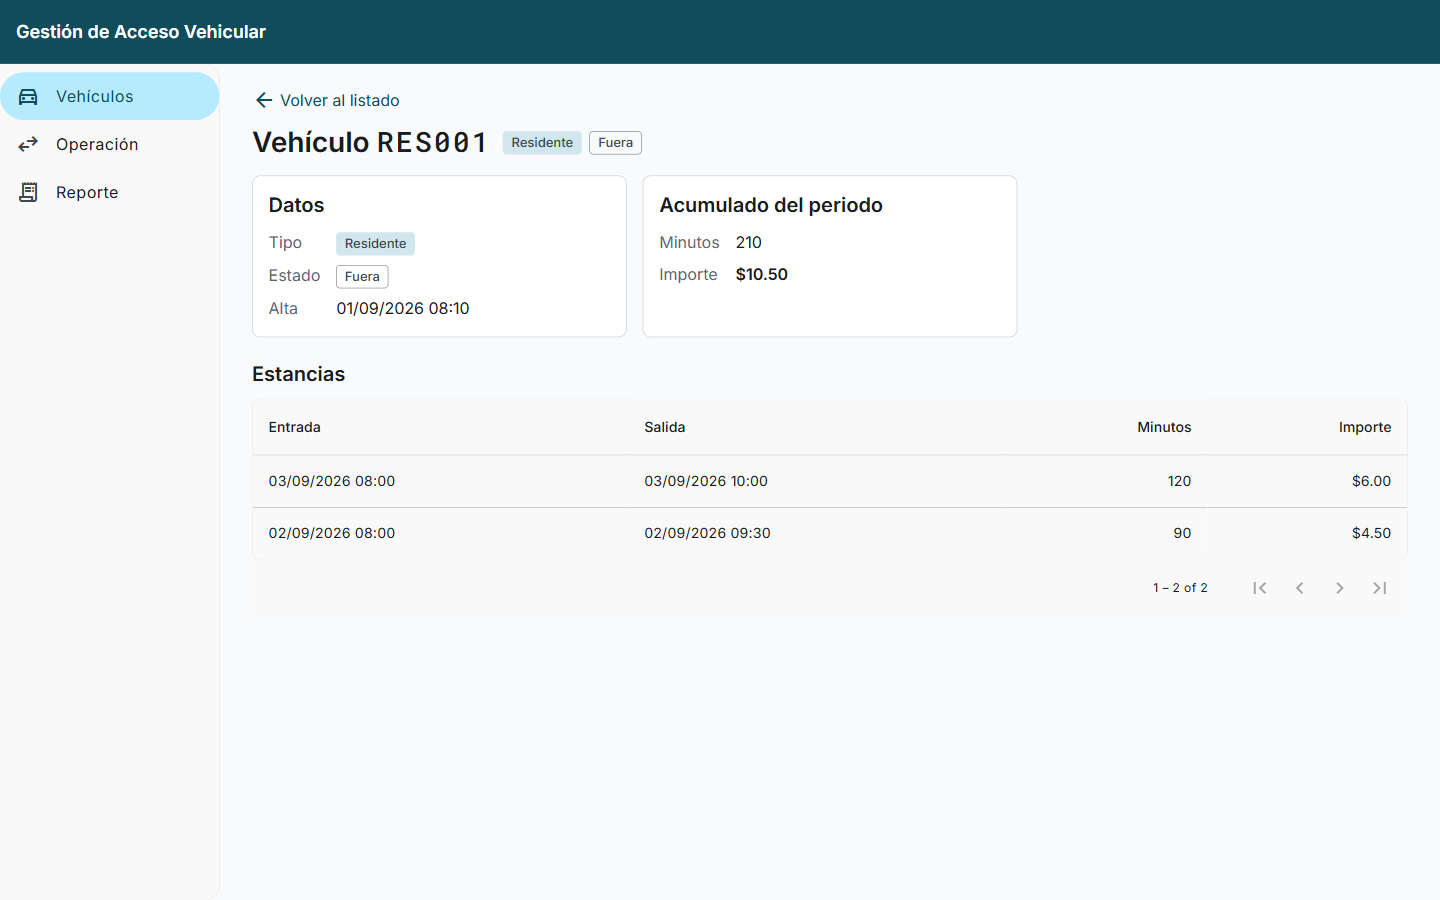
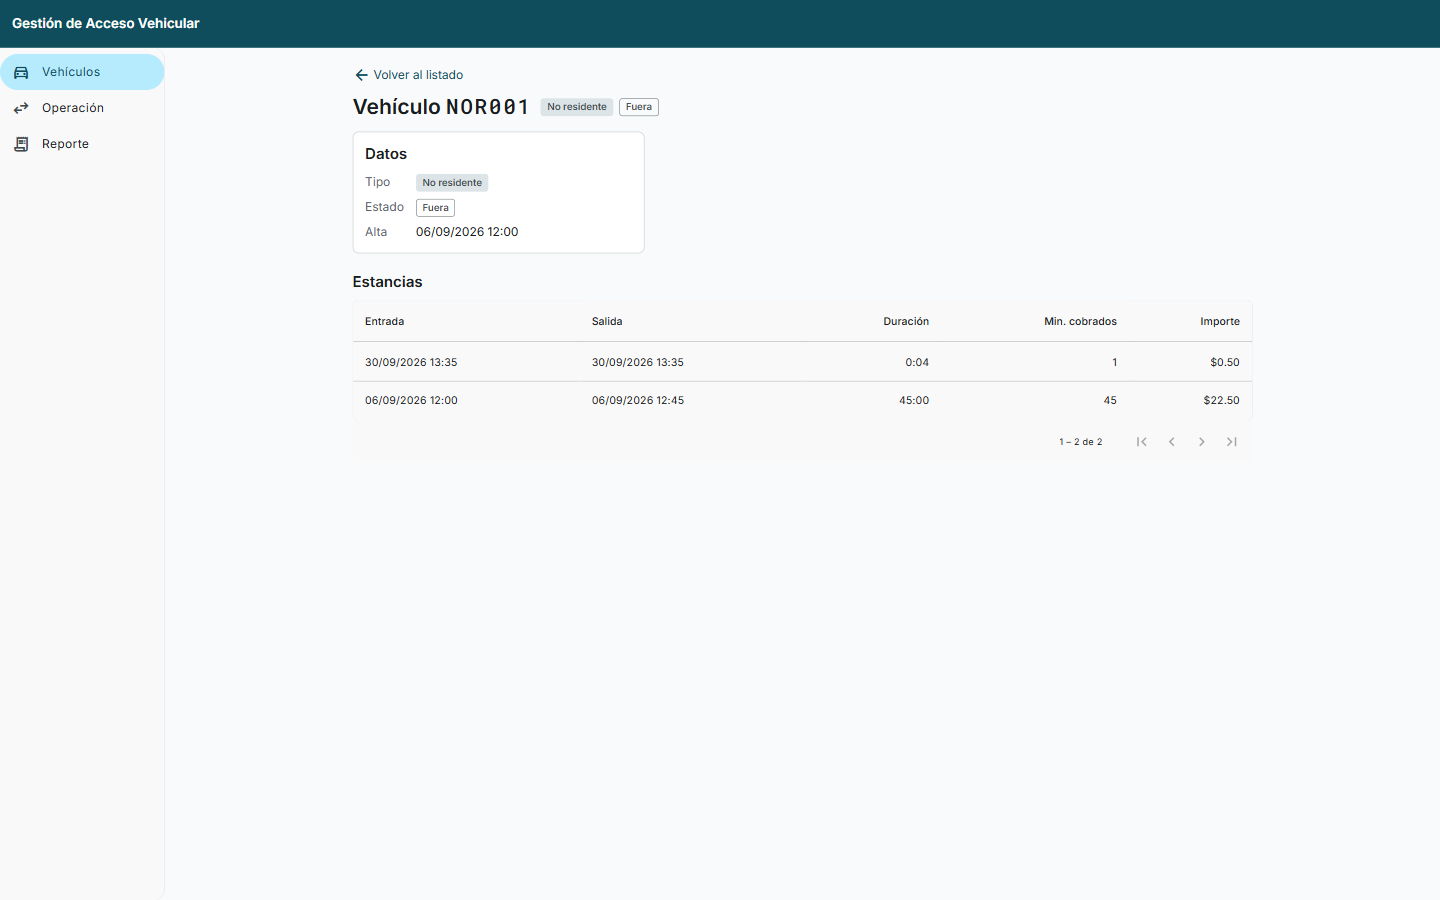
feat: duración real mm:ss junto a los minutos cobrados
API: EstanciaResponse.duracionSegundos (tiempo real) además de minutos (cobrados). UI: pipe duracion, columnas Duración y Min. cobrados en el detalle, bloque de salida y snackbars con mm:ss. 58 specs y 105 pruebas en verde; documentación y capturas actualizadas.

diff --git a/frontend/src/app/features/vehiculos/detalle/vehiculo-detalle.spec.ts b/frontend/src/app/features/vehiculos/detalle/vehiculo-detalle.spec.ts
@@ -22,6 +22,7 @@ const ESTANCIA: EstanciaResponse = {
   tipo: 'RESIDENTE',
   entrada: '2026-09-10T08:00:00Z',
   salida: '2026-09-10T09:00:00Z',
+  duracionSegundos: 3545,
   minutos: 60,
   importe: 3,
   momentoCobro: 'INFORME_MENSUAL',
@@ -33,7 +34,14 @@ const RESIDENTE: VehiculoDetalleResponse = {
   placa: 'RES001',
   tipo: 'RESIDENTE',
   dentro: true,
-  estanciaAbierta: { ...ESTANCIA, id: 2, salida: null, minutos: null, importe: null },
+  estanciaAbierta: {
+    ...ESTANCIA,
+    id: 2,
+    salida: null,
+    duracionSegundos: null,
+    minutos: null,
+    importe: null,
+  },
   acumuladoPeriodo: { minutos: 120, importe: 6 },
   createdAt: '2026-09-01T10:00:00Z',
 };
@@ -88,6 +96,26 @@ describe('VehiculoDetalle', () => {
     expect(elemento.textContent).toContain('$6.00');
     expect(elemento.textContent).toContain('Estancia abierta');
     expect(elemento.querySelectorAll('tr[mat-row]').length).toBe(1);
+    const cabeceras = Array.from(elemento.querySelectorAll('th')).map((th) =>
+      th.textContent?.trim(),
+    );
+    expect(cabeceras).toEqual(['Entrada', 'Salida', 'Duración', 'Min. cobrados', 'Importe']);
+    const celdas = Array.from(elemento.querySelectorAll('tr[mat-row] td')).map((td) =>
+      td.textContent?.trim(),
+    );
+    expect(celdas[2]).toBe('59:05');
+    expect(celdas[3]).toBe('60');
+    expect(celdas[4]).toBe('$3.00');
+  });
+
+  it('muestra guiones en duración y minutos de una estancia abierta', async () => {
+    detalle().flush(RESIDENTE);
+    estancias().flush(pagina([RESIDENTE.estanciaAbierta as EstanciaResponse]));
+    await fixture.whenStable();
+    const celdas = Array.from(
+      (fixture.nativeElement as HTMLElement).querySelectorAll('tr[mat-row] td'),
+    ).map((td) => td.textContent?.trim());
+    expect(celdas.slice(1)).toEqual(['—', '—', '—', '—']);
   });
 
   it('no muestra el acumulado ni la estancia abierta cuando llegan en null', async () => {

diff --git a/frontend/src/app/features/vehiculos/detalle/vehiculo-detalle.ts b/frontend/src/app/features/vehiculos/detalle/vehiculo-detalle.ts
@@ -6,6 +6,7 @@ import { MatCardModule } from '@angular/material/card';
 import { MatIconModule } from '@angular/material/icon';
 import { MatPaginatorModule, PageEvent } from '@angular/material/paginator';
 import { MatTableModule } from '@angular/material/table';
+import { MatTooltipModule } from '@angular/material/tooltip';
 import { RouterLink } from '@angular/router';
 import { VehiculosApi } from '../../../core/api/vehiculos-api';
 import {
@@ -13,6 +14,7 @@ import {
   PageResponse,
   VehiculoDetalleResponse,
 } from '../../../core/modelos/modelos';
+import { DuracionPipe } from '../../../shared/duracion.pipe';
 import { EmptyState } from '../../../shared/empty-state/empty-state';
 import { EstadoChip } from '../../../shared/estado-chip/estado-chip';
 import { Loading } from '../../../shared/loading/loading';
@@ -28,6 +30,8 @@ import { Loading } from '../../../shared/loading/loading';
     MatIconModule,
     MatPaginatorModule,
     MatTableModule,
+    MatTooltipModule,
+    DuracionPipe,
     EmptyState,
     EstadoChip,
     Loading,
@@ -40,7 +44,7 @@ export class VehiculoDetalle {
 
   readonly placa = input.required<string>();
 
-  readonly columnas = ['entrada', 'salida', 'minutos', 'importe'];
+  readonly columnas = ['entrada', 'salida', 'duracion', 'minutos', 'importe'];
   readonly tamano = 10;
 
   readonly vehiculo = signal<VehiculoDetalleResponse | null>(null);

diff --git a/frontend/src/app/features/operacion/movimiento-form.spec.ts b/frontend/src/app/features/operacion/movimiento-form.spec.ts
@@ -16,6 +16,7 @@ function estancia(momentoCobro: MomentoCobro, importe: number | null): EstanciaR
     tipo: 'NO_RESIDENTE',
     entrada: '2026-09-30T10:00:00Z',
     salida: momentoCobro === 'NINGUNO' ? null : '2026-09-30T11:30:00Z',
+    duracionSegundos: momentoCobro === 'NINGUNO' ? null : 5345,
     minutos: 90,
     importe,
     momentoCobro,
@@ -92,12 +93,14 @@ describe('MovimientoForm', () => {
 
     const resultado = (fixture.nativeElement as HTMLElement).querySelector('.resultado');
     expect(resultado?.querySelector('.placa')?.textContent).toBe('NR0001');
+    expect(resultado?.textContent).toContain('89:05');
+    expect(resultado?.textContent).toContain('Minutos cobrados');
     expect(resultado?.textContent).toContain('90');
     expect(resultado?.textContent).toContain('$45.00');
     expect(resultado?.textContent).toContain('Cobrar al salir');
     const snackbar = await rootLoader.getHarness(MatSnackBarHarness);
     expect(await snackbar.getMessage()).toBe(
-      'Salida registrada: NR0001 · 90 min · $45.00 · Cobrar al salir',
+      'Salida registrada: NR0001 · 89:05 · 90 min cobrados · $45.00 · Cobrar al salir',
     );
     expect(await input.getValue()).toBe('');
   });

diff --git a/frontend/src/app/shared/cobro/resumen-salida.ts b/frontend/src/app/shared/cobro/resumen-salida.ts
@@ -1,5 +1,6 @@
 import { formatCurrency } from '@angular/common';
 import { EstanciaResponse, MomentoCobro } from '../../core/modelos/modelos';
+import { formatearDuracion } from '../duracion.pipe';
 
 export const ETIQUETA_COBRO: Record<MomentoCobro, string> = {
   AL_SALIR: 'Cobrar al salir',
@@ -7,8 +8,9 @@ export const ETIQUETA_COBRO: Record<MomentoCobro, string> = {
   NINGUNO: 'Sin cobro',
 };
 
-/** Texto de snackbar tras una salida: placa, minutos, importe y momento de cobro. */
+/** Texto de snackbar tras una salida: placa, duración real, minutos cobrados, importe y cobro. */
 export function resumenSalida(estancia: EstanciaResponse, locale: string): string {
+  const duracion = formatearDuracion(estancia.duracionSegundos);
   const importe = formatCurrency(estancia.importe ?? 0, locale, '$', 'MXN');
-  return `Salida registrada: ${estancia.placa} · ${estancia.minutos ?? 0} min · ${importe} · ${ETIQUETA_COBRO[estancia.momentoCobro]}`;
+  return `Salida registrada: ${estancia.placa} · ${duracion} · ${estancia.minutos ?? 0} min cobrados · ${importe} · ${ETIQUETA_COBRO[estancia.momentoCobro]}`;
 }

diff --git a/frontend/src/app/features/vehiculos/detalle/vehiculo-detalle.html b/frontend/src/app/features/vehiculos/detalle/vehiculo-detalle.html
@@ -102,8 +102,21 @@
                 }
               </td>
             </ng-container>
+            <ng-container matColumnDef="duracion">
+              <th mat-header-cell *matHeaderCellDef class="num" matTooltip="Duración real (mm:ss)">
+                Duración
+              </th>
+              <td mat-cell *matCellDef="let e" class="num">{{ e.duracionSegundos | duracion }}</td>
+            </ng-container>
             <ng-container matColumnDef="minutos">
-              <th mat-header-cell *matHeaderCellDef class="num">Minutos</th>
+              <th
+                mat-header-cell
+                *matHeaderCellDef
+                class="num"
+                matTooltip="Todo minuto iniciado se cobra completo"
+              >
+                Min. cobrados
+              </th>
               <td mat-cell *matCellDef="let e" class="num">{{ e.minutos ?? '—' }}</td>
             </ng-container>
             <ng-container matColumnDef="importe">

diff --git a/frontend/src/app/shared/duracion.pipe.ts b/frontend/src/app/shared/duracion.pipe.ts
@@ -1,0 +1,19 @@
+import { Pipe, PipeTransform } from '@angular/core';
+
+/** Segundos → `mm:ss` con minutos totales sin tope (605 → "10:05", 12600 → "210:00"); null → "—". */
+export function formatearDuracion(segundos: number | null | undefined): string {
+  if (segundos === null || segundos === undefined || !Number.isFinite(segundos)) {
+    return '—';
+  }
+  const total = Math.max(0, Math.floor(segundos));
+  const minutos = Math.floor(total / 60);
+  const resto = total % 60;
+  return `${minutos}:${resto.toString().padStart(2, '0')}`;
+}
+
+@Pipe({ name: 'duracion' })
+export class DuracionPipe implements PipeTransform {
+  transform(segundos: number | null | undefined): string {
+    return formatearDuracion(segundos);
+  }
+}

diff --git a/frontend/src/app/features/vehiculos/lista/vehiculos-lista.spec.ts b/frontend/src/app/features/vehiculos/lista/vehiculos-lista.spec.ts
@@ -181,8 +181,9 @@ describe('VehiculosLista', () => {
       tipo: 'RESIDENTE',
       entrada: '2026-09-30T10:00:00Z',
       salida: '2026-09-30T10:12:00Z',
-      minutos: 12,
-      importe: 6,
+      duracionSegundos: 605,
+      minutos: 11,
+      importe: 5.5,
       momentoCobro: 'AL_SALIR',
       periodoId: null,
     };
@@ -243,7 +244,7 @@ describe('VehiculosLista', () => {
       const snackbar =
         await TestbedHarnessEnvironment.documentRootLoader(fixture).getHarness(MatSnackBarHarness);
       expect(await snackbar.getMessage()).toBe(
-        'Salida registrada: RES001 · 12 min · $6.00 · Cobrar al salir',
+        'Salida registrada: RES001 · 10:05 · 11 min cobrados · $5.50 · Cobrar al salir',
       );
     });
 

diff --git a/frontend/src/app/features/operacion/movimiento-form.ts b/frontend/src/app/features/operacion/movimiento-form.ts
@@ -16,6 +16,7 @@ import { MatSnackBar } from '@angular/material/snack-bar';
 import { EstanciasApi } from '../../core/api/estancias-api';
 import { EstanciaResponse } from '../../core/modelos/modelos';
 import { ETIQUETA_COBRO, resumenSalida } from '../../shared/cobro/resumen-salida';
+import { DuracionPipe } from '../../shared/duracion.pipe';
 import { PlacaMayusculas } from '../../shared/placa/placa-mayusculas.directive';
 import { normalizarPlaca, placaValidator } from '../../shared/placa/placa.validator';
 
@@ -25,6 +26,7 @@ export type Movimiento = 'entrada' | 'salida';
   selector: 'app-movimiento-form',
   imports: [
     CurrencyPipe,
+    DuracionPipe,
     ReactiveFormsModule,
     MatButtonModule,
     MatCardModule,

diff --git a/frontend/src/app/shared/duracion.pipe.spec.ts b/frontend/src/app/shared/duracion.pipe.spec.ts
@@ -1,0 +1,21 @@
+import { DuracionPipe } from './duracion.pipe';
+
+describe('DuracionPipe', () => {
+  const pipe = new DuracionPipe();
+
+  it('convierte segundos a mm:ss sin tope de minutos', () => {
+    expect(pipe.transform(605)).toBe('10:05');
+    expect(pipe.transform(5)).toBe('0:05');
+    expect(pipe.transform(12600)).toBe('210:00');
+    expect(pipe.transform(0)).toBe('0:00');
+  });
+
+  it('descarta fracciones de segundo', () => {
+    expect(pipe.transform(59.9)).toBe('0:59');
+  });
+
+  it('muestra un guion sin valor', () => {
+    expect(pipe.transform(null)).toBe('—');
+    expect(pipe.transform(undefined)).toBe('—');
+  });
+});

diff --git a/frontend/src/app/features/operacion/movimiento-form.html b/frontend/src/app/features/operacion/movimiento-form.html
@@ -34,7 +34,9 @@
             <dd>
               <span class="placa">{{ r.placa }}</span>
             </dd>
-            <dt>Minutos</dt>
+            <dt>Duración</dt>
+            <dd>{{ r.duracionSegundos | duracion }}</dd>
+            <dt>Minutos cobrados</dt>
             <dd>{{ r.minutos ?? 0 }}</dd>
             <dt>Importe</dt>
             <dd>{{ r.importe ?? 0 | currency: 'MXN' : 'symbol-narrow' }}</dd>

diff --git a/frontend/src/app/core/modelos/modelos.ts b/frontend/src/app/core/modelos/modelos.ts
@@ -23,6 +23,9 @@ export interface EstanciaResponse {
   tipo: TipoVehiculo;
   entrada: string;
   salida: string | null;
+  /** Segundos reales entre entrada y salida; null si la estancia sigue abierta. */
+  duracionSegundos: number | null;
+  /** Minutos cobrados: todo minuto iniciado cuenta completo. */
   minutos: number | null;
   importe: number | null;
   momentoCobro: MomentoCobro;

diff --git a/backend/src/test/java/mx/neology/acceso/web/EstanciasIntegracionTest.java b/backend/src/test/java/mx/neology/acceso/web/EstanciasIntegracionTest.java
@@ -48,6 +48,7 @@ class EstanciasIntegracionTest extends IntegracionBase {
         .andExpect(jsonPath("$.dentro").value(true))
         .andExpect(jsonPath("$.estanciaAbierta.salida").value(nullValue()))
         .andExpect(jsonPath("$.estanciaAbierta.minutos").value(nullValue()))
+        .andExpect(jsonPath("$.estanciaAbierta.duracionSegundos").value(nullValue()))
         .andExpect(jsonPath("$.estanciaAbierta.importe").value(nullValue()))
         .andExpect(jsonPath("$.estanciaAbierta.momentoCobro").value("AL_SALIR"))
         .andExpect(jsonPath("$.acumuladoPeriodo").value(nullValue()));
@@ -86,6 +87,7 @@ class EstanciasIntegracionTest extends IntegracionBase {
                 .content(cuerpo("nor001")))
         .andExpect(status().isOk())
         .andExpect(jsonPath("$.placa").value("NOR001"))
+        .andExpect(jsonPath("$.duracionSegundos").value(605))
         .andExpect(jsonPath("$.minutos").value(11))
         .andExpect(jsonPath("$.importe").value(5.50))
         .andExpect(jsonPath("$.momentoCobro").value("AL_SALIR"))
